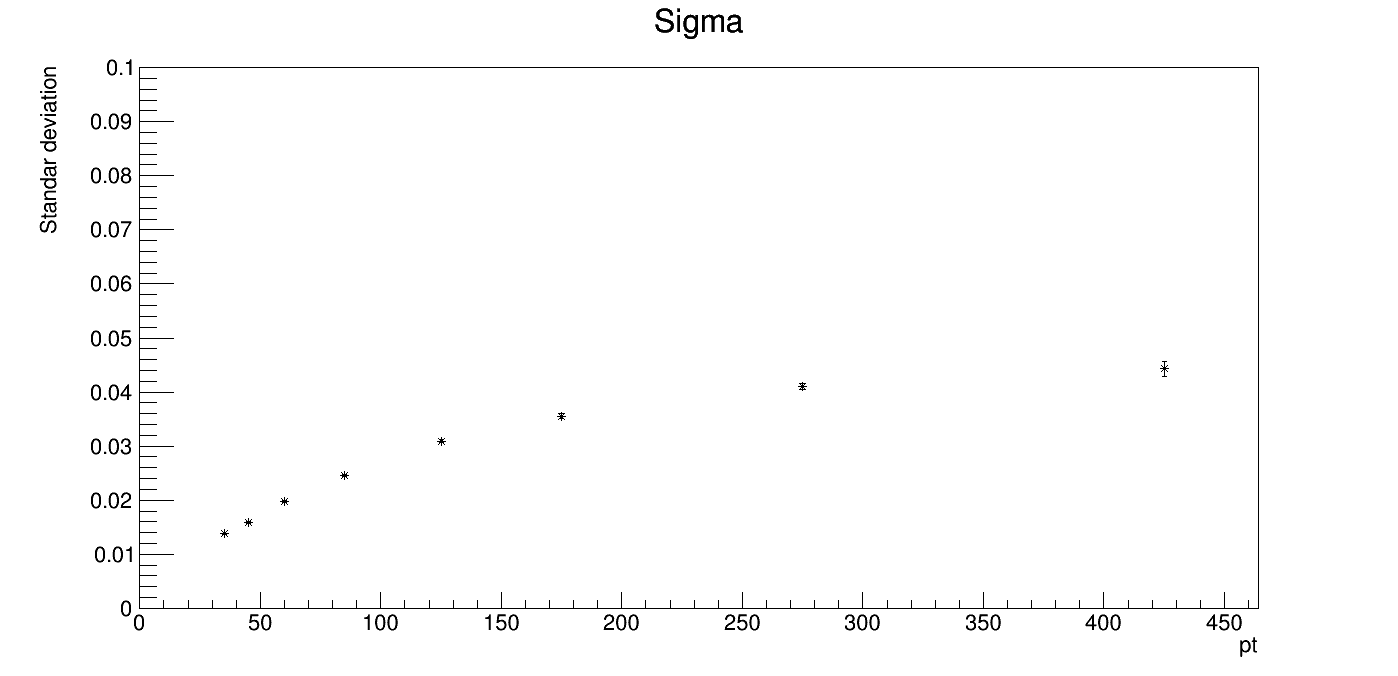
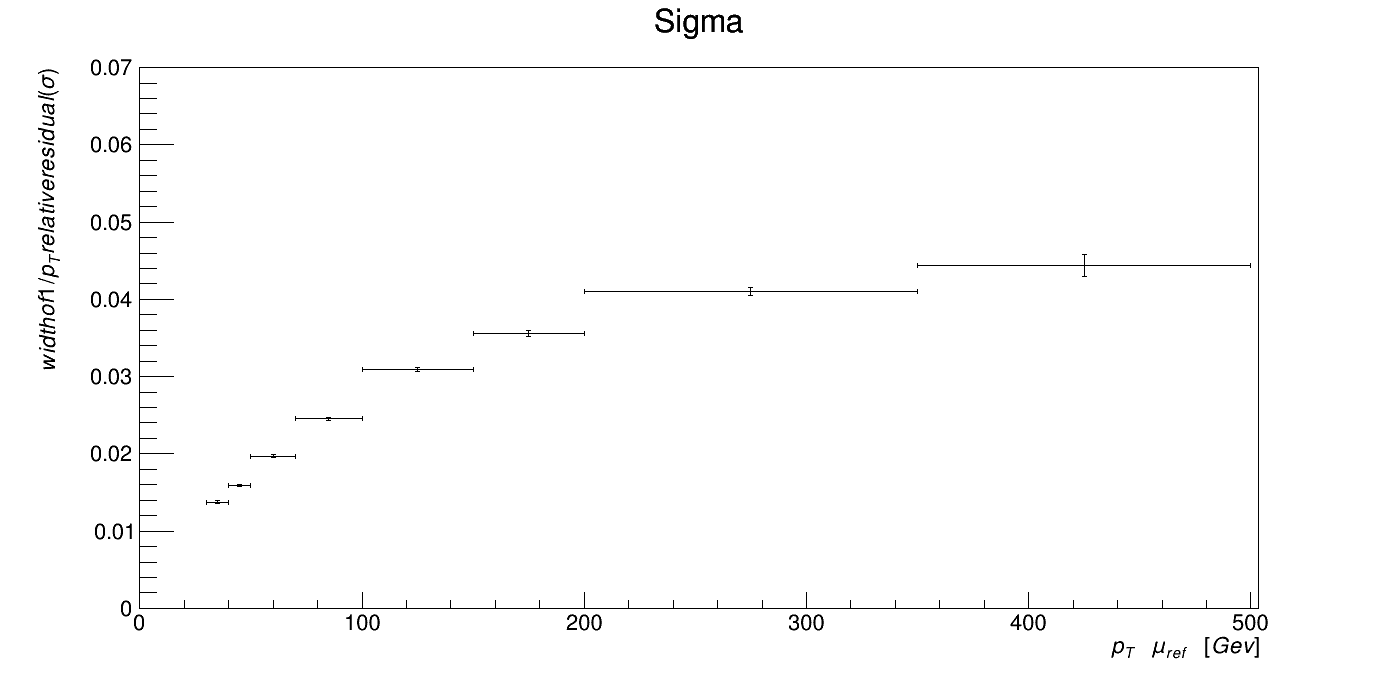
plots update

diff --git a/dgl_ptmuond.py b/dgl_ptmuond.py
@@ -1,30 +1,35 @@
 import ROOT
 import numpy as np
+import math 
 import array as arr
 import sys
 
 if len( sys.argv ) != 2:
-  print"USAGE: %s <input file >"%( sys.argv [0])
+  print("USAGE: %s <input file >"%( sys.argv [0]))
   sys.exit (1)
  #input the name of the root file
 inFileName = sys.argv[1]
 
 #Open root file and get branch
 inFile = ROOT.TFile.Open( inFileName ," READ ")
-print "Reading from ", inFileName      
+print("Reading from ", inFileName)      
 
 can  = ROOT.TCanvas("can", "histograms", 1400,700)
 can2  = ROOT.TCanvas("can2", "histograms", 1400,700)
+can3  = ROOT.TCanvas("can3", "histograms", 1400,700)
+can4  = ROOT.TCanvas("can4", "histograms", 1400,700)
 
 
 #Relevan variables
 n=8
 sigma=np.array([0.0,0.0,0.0,0.0,0.0,0.0,0.0,0.0])
 average_resolution=np.array([0.0,0.0,0.0,0.0,0.0,0.0,0.0,0.0])
+sigma_hist=np.array([0.0,0.0,0.0,0.0,0.0,0.0,0.0,0.0])
+average_resolution_hist=np.array([0.0,0.0,0.0,0.0,0.0,0.0,0.0,0.0])
 res_error=np.array([0.0,0.0,0.0,0.0,0.0,0.0,0.0,0.0])
 sigma_error=np.array([0.0,0.0,0.0,0.0,0.0,0.0,0.0,0.0])
+bin_size=np.array([5.0,5.0,10.0,15.0,25.0,25.0,75.0,75.0])
 empty=np.array([0.0,0.0,0.0,0.0,0.0,0.0,0.0,0.0])
-
 #Bining
 pt_bin=np.array([35.0,45.0,60.0,85.0,125.0,175.0,275.0,425.0])
 
@@ -38,7 +43,8 @@ res_error[0]=fit1.ParError(1)
 sigma_error[0]=fit1.ParError(2)
 average_resolution[0]=mean_res1
 sigma[0]=sigma1
-
+sigma_hist[0]=h1.GetStdDev()
+average_resolution_hist[0]=h1.GetMean()
 
 
 h2=inFile.Get("pt_40-50_hist")
@@ -49,6 +55,8 @@ res_error[1]=fit2.ParError(1)
 sigma_error[1]=fit2.ParError(2)
 average_resolution[1]=mean_res2
 sigma[1]=sigma2
+sigma_hist[1]=h2.GetStdDev()
+average_resolution_hist[1]=h2.GetMean()
 
 h3=inFile.Get("pt_50-70_hist")
 fit3= h3.Fit("gaus", "S")
@@ -58,7 +66,8 @@ res_error[2]=fit3.ParError(1)
 sigma_error[2]=fit3.ParError(2)
 average_resolution[2]=mean_res3
 sigma[2]=sigma3
-
+sigma_hist[2]=h3.GetStdDev()
+average_resolution_hist[2]=h3.GetMean()
 
 h4=inFile.Get("pt_70-100_hist")
 fit4= h4.Fit("gaus", "S")
@@ -68,6 +77,8 @@ res_error[3]=fit4.ParError(1)
 sigma_error[3]=fit4.ParError(2)
 average_resolution[3]=mean_res4
 sigma[3]=sigma4
+sigma_hist[3]=h4.GetStdDev()
+average_resolution_hist[3]=h4.GetMean()
 
 h5=inFile.Get("pt_100-150_hist")
 fit5= h5.Fit("gaus", "S")
@@ -77,7 +88,8 @@ res_error[4]=fit5.ParError(1)
 sigma_error[4]=fit5.ParError(2)
 average_resolution[4]=mean_res5
 sigma[4]=sigma5
-
+sigma_hist[4]=h5.GetStdDev()
+average_resolution_hist[4]=h5.GetMean()
 
 h6=inFile.Get("pt_150-200_hist")
 fit6= h6.Fit("gaus", "S")
@@ -87,7 +99,8 @@ res_error[5]=fit6.ParError(1)
 sigma_error[5]=fit6.ParError(2)
 average_resolution[5]=mean_res6
 sigma[5]=sigma6
-
+sigma_hist[5]=h6.GetStdDev()
+average_resolution_hist[5]=h6.GetMean()
 
 h7=inFile.Get("pt_200-350_hist")
 fit7= h7.Fit("gaus", "S")
@@ -97,7 +110,8 @@ res_error[6]=fit7.ParError(1)
 sigma_error[6]=fit7.ParError(2)
 average_resolution[6]=mean_res7
 sigma[6]=sigma7
-
+sigma_hist[6]=h7.GetStdDev()
+average_resolution_hist[6]=h7.GetMean()
 
 h8=inFile.Get("pt_350-500_hist")
 fit8= h8.Fit("gaus", "S")
@@ -107,29 +121,55 @@ res_error[7]=fit8.ParError(1)
 sigma_error[7]=fit8.ParError(2)
 average_resolution[7]=mean_res8
 sigma[7]=sigma8
+sigma_hist[7]=h8.GetStdDev()
+average_resolution_hist[7]=h8.GetMean()
 
 
 #Creating and saving resolutions graphs
-gr = ROOT.TGraphErrors( n, pt_bin, average_resolution,empty,res_error )
+gr = ROOT.TGraphErrors( n, pt_bin, average_resolution,bin_size,res_error )
 gr.SetTitle( 'Pt Resolution' )
-gr.GetXaxis().SetTitle( 'pt' )
-gr.GetYaxis().SetTitle( 'Average Resolution' )
-gr.GetYaxis().SetRangeUser( -0.06,0.06 )
+gr.GetXaxis().SetTitle( 'p_{T}\ \mu_{ref}\ [Gev]' )
+gr.GetYaxis().SetTitle( 'Mean of 1/p_{T} relative residual' )
+gr.GetYaxis().SetRangeUser( -0.015,0.0 )
+gr.GetXaxis().SetRangeUser( 0,500)
 can.cd()
-gr.Draw('PA*')
+#can.SetLogx()
+gr.Draw('ap')
 can.SaveAs("plots/Average_Resolution.png")
 
-
-gs = ROOT.TGraphErrors( n, pt_bin, sigma,empty,sigma_error )
+gs = ROOT.TGraphErrors( n, pt_bin, sigma,bin_size,sigma_error )
 gs.SetTitle( 'Sigma' )
-gs.GetXaxis().SetTitle( 'pt' )
-gs.GetYaxis().SetTitle( 'Standar deviation' )
-gs.GetYaxis().SetRangeUser( 0.0,0.1 )
+gs.GetXaxis().SetTitle( 'p_{T}\ \mu_{ref}\ [Gev]' )
+gs.GetYaxis().SetTitle( 'width of 1/p_{T} relative residual(\sigma)' )
+gs.GetYaxis().SetRangeUser( 0.0,0.07 )
+gs.GetXaxis().SetRangeUser( 0,500 )
 can2.cd()
-gs.Draw('PA*')
+#can2.SetLogx()
+gs.Draw('ap')
 can2.SaveAs("plots/Sigma.png")
 
+'''
+gp = ROOT.TGraphErrors( n, pt_bin, average_resolution_hist,empty,empty )
+gp.SetTitle( 'Pt Resolution' )
+gp.GetXaxis().SetTitle( 'Pt' )
+gp.GetYaxis().SetTitle( 'Average Resolution' )
+gp.GetYaxis().SetRangeUser( -0.06,0.06 )
+can3.cd()
+can3.SetLogx()
+gp.Draw('PA*')
+can3.SaveAs("plots/Average_Resolution_histmean.png")
 
+
+go = ROOT.TGraphErrors( n, pt_bin, sigma_hist,empty,empty )
+go.SetTitle( 'Sigma' )
+go.GetXaxis().SetTitle( 'Pt' )
+go.GetYaxis().SetTitle( 'Standar deviation' )
+go.GetYaxis().SetRangeUser( 0.0,0.1 )
+can4.cd()
+go.Draw('PA*')
+can4.SetLogx()
+can4.SaveAs("plots/Sigma_hist.png")
+'''
 
 
 
